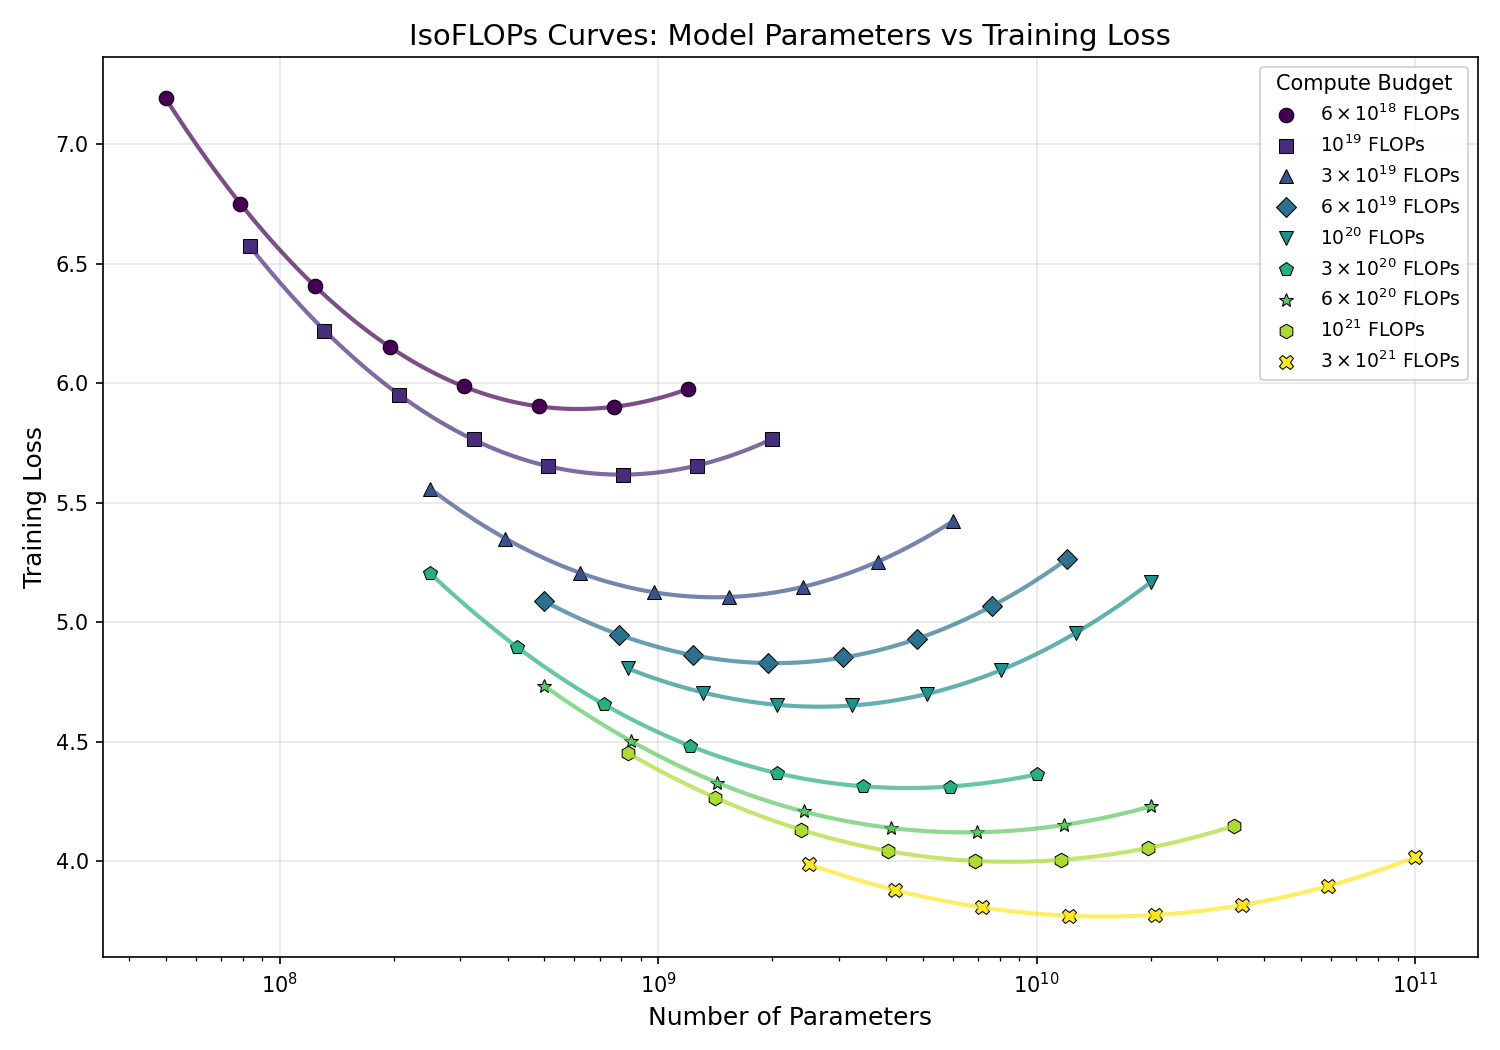
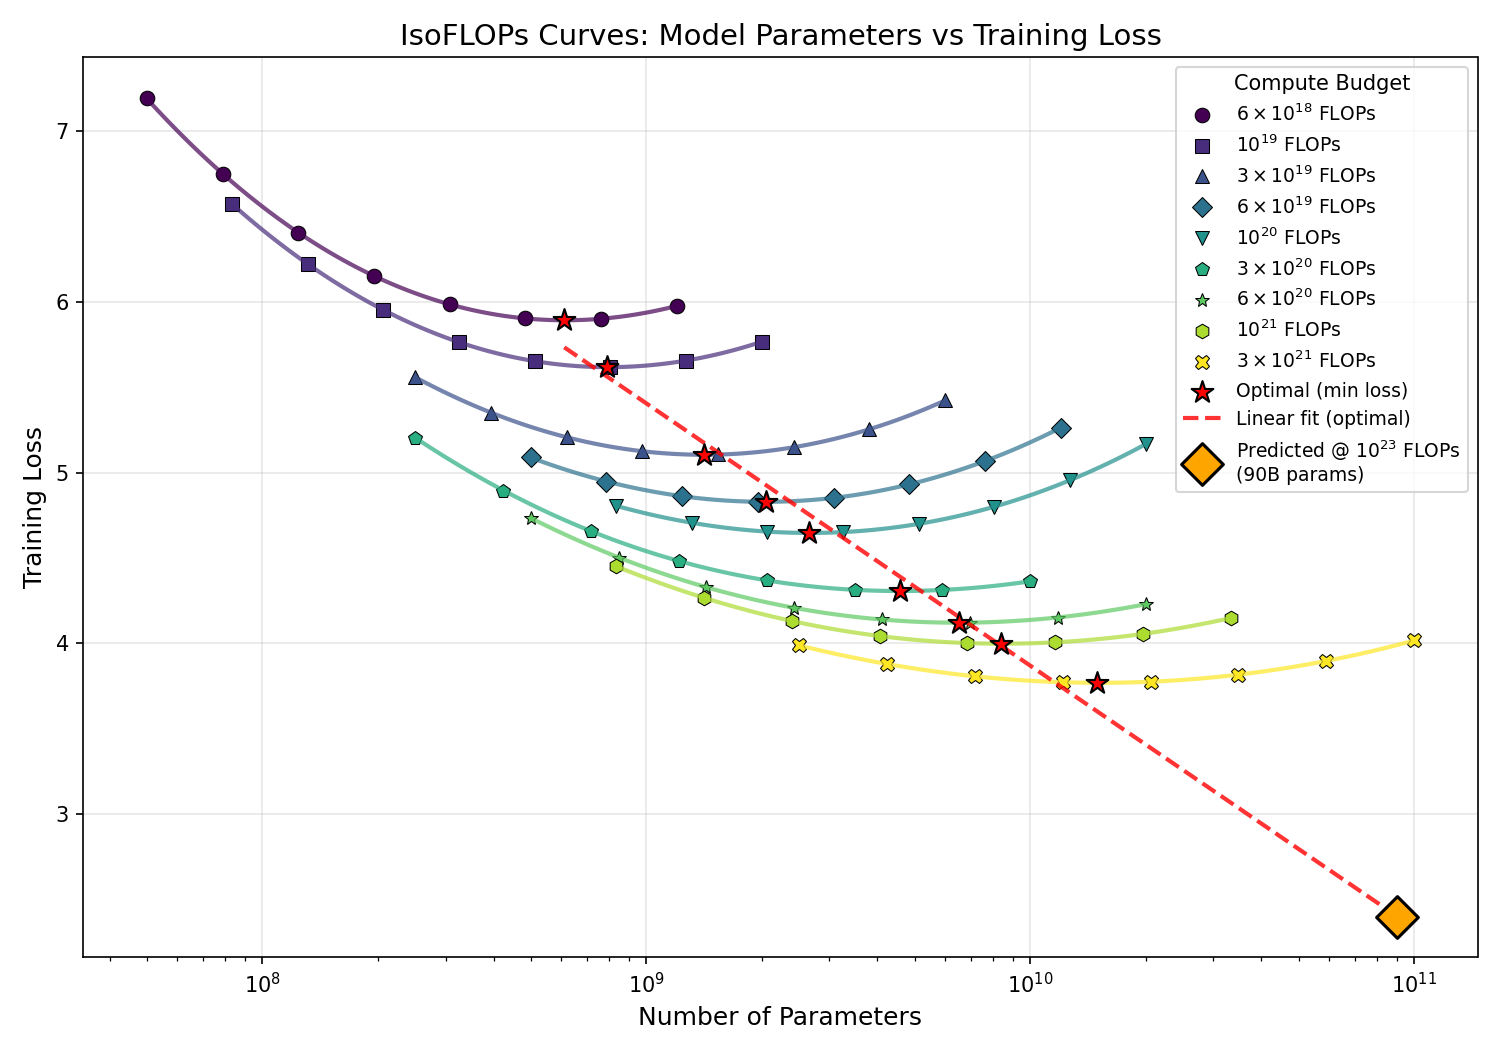
Add optimal frontier with linear fit and 10^23 FLOPs prediction
- Track optimal (min loss) point for each compute budget
- Add linear fit line through optimal points
- Predict optimal model size (~90B params) for 10^23 FLOPs

diff --git a/assignments/assignment3/src/visualize_isoflops.py b/assignments/assignment3/src/visualize_isoflops.py
@@ -48,6 +48,9 @@ def main():
     # Different markers for black-and-white readability
     markers = ["o", "s", "^", "D", "v", "p", "*", "h", "X", "<"]
 
+    # Track optimal points (lowest loss) for each compute budget
+    optimal_points: list[tuple[float, float, float]] = []  # (flops, params, loss)
+
     for i, (budget, color) in enumerate(zip(sorted_budgets, colors)):
         points = sorted(budgets[budget], key=lambda x: x[1])  # Sort by params
         losses = np.array([p[0] for p in points])
@@ -76,6 +79,82 @@ def main():
         params_smooth = 10**log_params_smooth
 
         ax.plot(params_smooth, losses_smooth, "-", color=color, alpha=0.7, linewidth=2)
+
+        # Find optimal point (minimum loss) from the spline
+        min_idx = np.argmin(losses_smooth)
+        optimal_params = params_smooth[min_idx]
+        optimal_loss = losses_smooth[min_idx]
+        optimal_points.append((budget, optimal_params, optimal_loss))
+
+    # Plot the optimal frontier curve connecting lowest loss points
+    if len(optimal_points) >= 2:
+        optimal_points.sort(key=lambda x: x[0])  # Sort by compute budget
+        opt_flops = np.array([p[0] for p in optimal_points])
+        opt_params = np.array([p[1] for p in optimal_points])
+        opt_losses = np.array([p[2] for p in optimal_points])
+
+        # Plot optimal points with distinct markers
+        ax.scatter(
+            opt_params,
+            opt_losses,
+            s=120,
+            c="red",
+            marker="*",
+            edgecolors="black",
+            linewidths=1,
+            zorder=10,
+            label="Optimal (min loss)",
+        )
+
+        # Linear fit on optimal points: loss = m * params + c
+        # Use log10(params) for x-axis since plot is log-scale
+        log_opt_params = np.log10(opt_params)
+        linear_coeffs = np.polyfit(log_opt_params, opt_losses, 1)
+        m = linear_coeffs[0]  # slope
+        c = linear_coeffs[1]  # intercept
+
+        # Generate line for plotting (extended to prediction)
+        # First, predict optimal params for 10^23 FLOPs using power law fit
+        log_C = np.log10(opt_flops)
+        log_N = np.log10(opt_params)
+        params_coeffs = np.polyfit(log_C, log_N, 1)
+        C_target = 1e23
+        log_N_predicted = params_coeffs[0] * np.log10(C_target) + params_coeffs[1]
+        N_predicted = 10**log_N_predicted
+
+        # Predict loss using linear fit
+        loss_predicted = m * log_N_predicted + c
+
+        print(f"Linear fit: loss = {m:.4f} * log10(params) + {c:.4f}")
+        print(f"Predicted optimal model size for 10^23 FLOPs: {N_predicted:.2e} ({N_predicted/1e9:.0f}B params)")
+        print(f"Predicted loss: {loss_predicted:.4f}")
+
+        # Plot the linear fit line through optimal points
+        log_params_range = np.linspace(log_opt_params.min(), log_N_predicted, 100)
+        loss_fit_line = m * log_params_range + c
+        ax.plot(
+            10**log_params_range,
+            loss_fit_line,
+            "--",
+            color="red",
+            linewidth=2,
+            alpha=0.8,
+            zorder=9,
+            label="Linear fit (optimal)",
+        )
+
+        # Plot prediction point
+        ax.scatter(
+            [N_predicted],
+            [loss_predicted],
+            s=200,
+            c="orange",
+            marker="D",
+            edgecolors="black",
+            linewidths=1.5,
+            zorder=11,
+            label=f"Predicted @ $10^{{23}}$ FLOPs\n({N_predicted/1e9:.0f}B params)",
+        )
 
     ax.set_xlabel("Number of Parameters", fontsize=12)
     ax.set_ylabel("Training Loss", fontsize=12)
